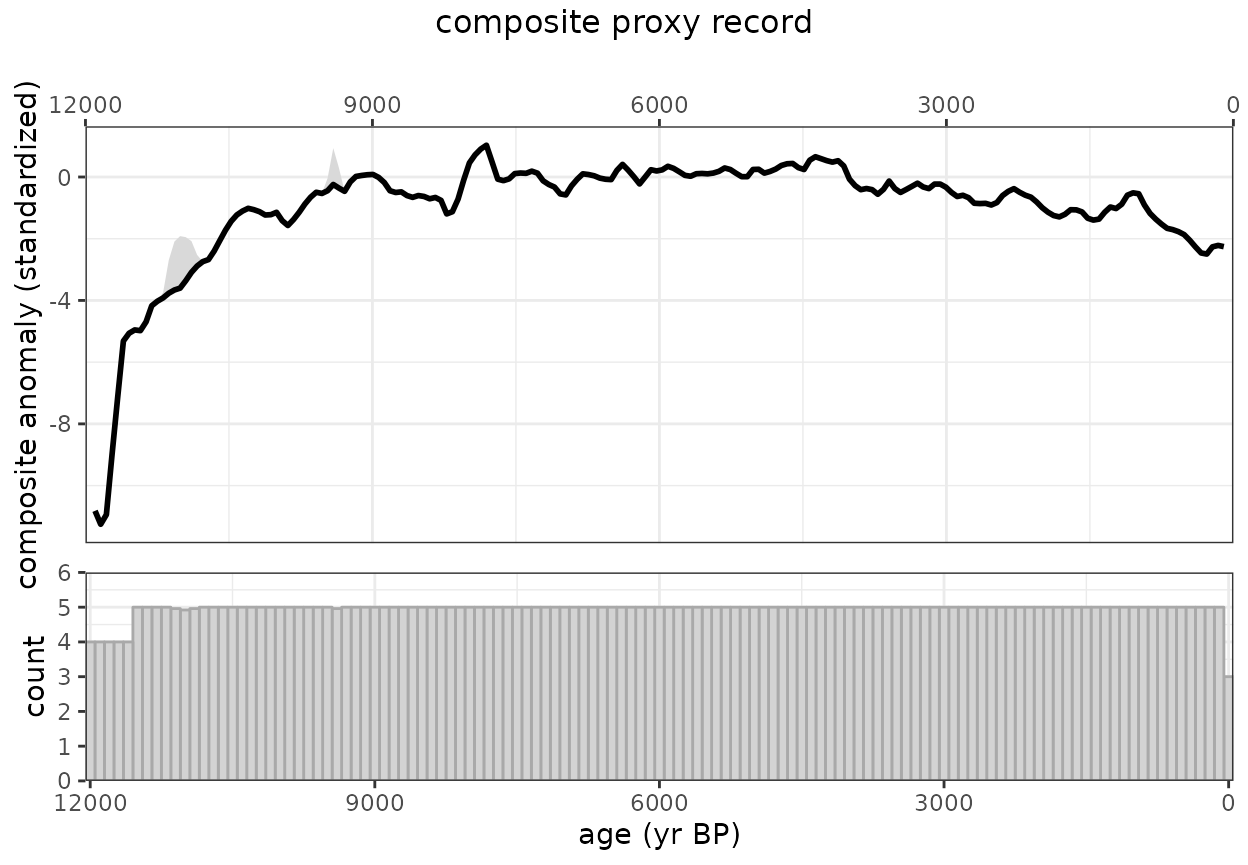
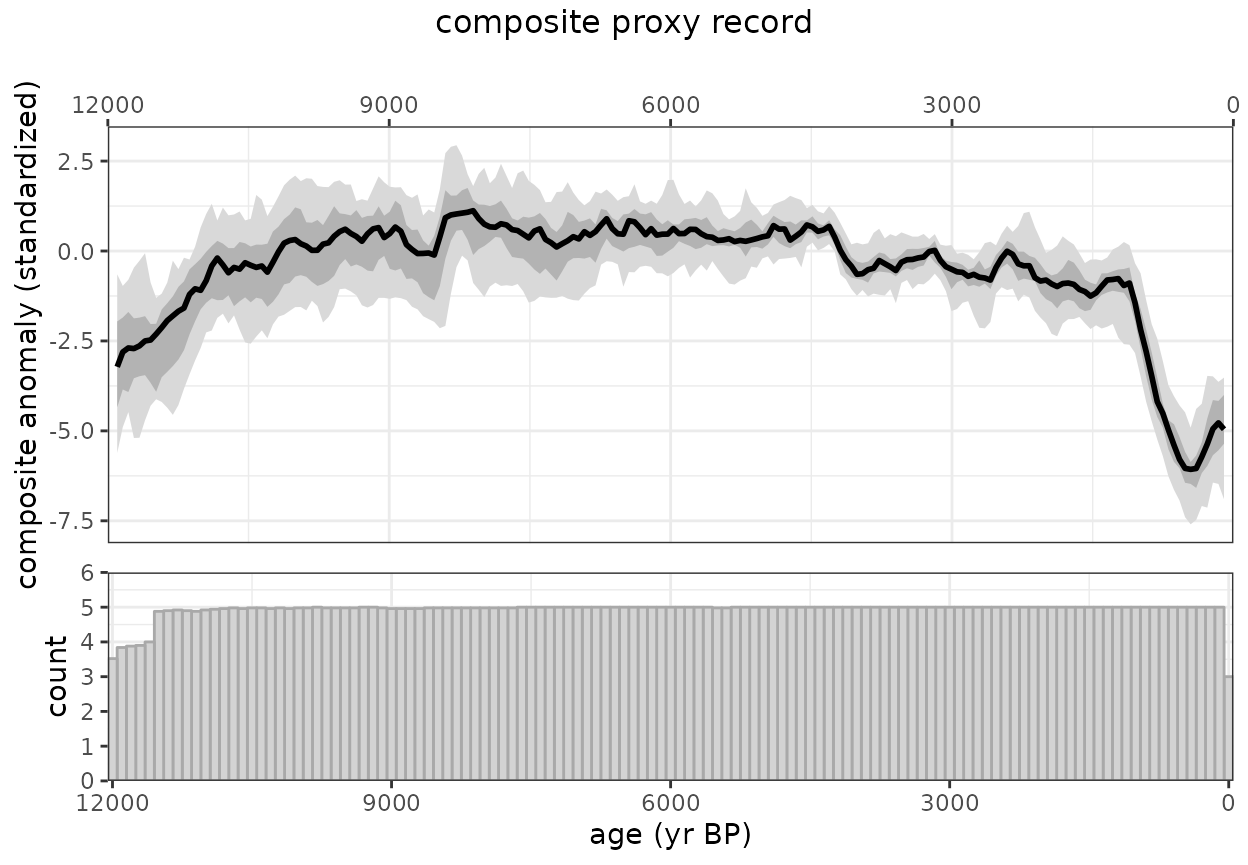
Deploying to gh-pages from @ clhancock/compositeR@27f33b69e95f2c0f1eb61ef88e45664df5b25c02 🚀

diff --git a/articles/Temp12k_IceCore.html b/articles/Temp12k_IceCore.html
@@ -305,20 +305,21 @@ sampleEnsembleThenBinTs</strong></p>
 <span>                                interval<span class="op">=</span><span class="va">interval</span>,</span>
 <span>                                minN<span class="op">=</span><span class="fl">5</span></span>
 <span>                              <span class="op">)</span></span>
+<span><span class="co">#&gt; [1] "binning and aligning the data. This may take some time depending on the number of records (length(fTS)) and number of ensembles (nens)"</span></span>
 <span></span>
 <span><span class="fu"><a href="../reference/printComposite.html">printComposite</a></span><span class="op">(</span><span class="va">ensOut</span><span class="op">)</span></span>
 <span><span class="co">#&gt; Composite created for ages: <span style="color: #00BB00;">0-12000</span> yr BP at <span style="color: #00BB00;">100</span> year resolution</span></span>
-<span><span class="co">#&gt; <span style="color: #00BB00;">5</span> proxy records used. The maximum data density occurs between <span style="color: #00BB00;">100-11500</span> yr BP</span></span>
+<span><span class="co">#&gt; <span style="color: #00BB00;">5</span> proxy records used. The maximum data density occurs between <span style="color: #00BB00;">100-9800</span> yr BP</span></span>
 <span><span class="co">#&gt; <span style="color: #00BB00;">50</span> ensembles generated</span></span>
-<span><span class="co">#&gt; The maximum median value occurs at <span style="color: #BB0000;">7800</span> yr BP.</span></span>
-<span><span class="co">#&gt; The minimum median value occurs at <span style="color: #0000BB;">11800</span> yr BP.</span></span>
+<span><span class="co">#&gt; The maximum median value occurs at <span style="color: #BB0000;">8200</span> yr BP.</span></span>
+<span><span class="co">#&gt; The minimum median value occurs at <span style="color: #0000BB;">500</span> yr BP.</span></span>
 <span><span class="co">#&gt;   age median count</span></span>
-<span><span class="co">#&gt; 1   0  -0.63     3</span></span>
-<span><span class="co">#&gt; 2 100  -2.26     5</span></span>
-<span><span class="co">#&gt; 3 200  -2.19     5</span></span>
-<span><span class="co">#&gt; 4 300  -2.58     5</span></span>
-<span><span class="co">#&gt; 5 400  -2.25     5</span></span>
-<span><span class="co">#&gt; 6 500  -1.89     5</span></span>
+<span><span class="co">#&gt; 1   0  -1.50     3</span></span>
+<span><span class="co">#&gt; 2 100  -4.58     5</span></span>
+<span><span class="co">#&gt; 3 200  -4.44     5</span></span>
+<span><span class="co">#&gt; 4 300  -5.42     5</span></span>
+<span><span class="co">#&gt; 5 400  -6.03     5</span></span>
+<span><span class="co">#&gt; 6 500  -6.08     5</span></span>
 <span><span class="co">#TODO why is this plotting twice?</span></span>
 <span><span class="fu"><a href="../reference/plotComposite.html">plotComposite</a></span><span class="op">(</span><span class="va">ensOut</span><span class="op">)</span></span></code></pre></div>
 <p><img src="Temp12k_IceCore_files/figure-html/unnamed-chunk-10-1.png" width="624"><img src="Temp12k_IceCore_files/figure-html/unnamed-chunk-10-2.png" width="624"></p>
